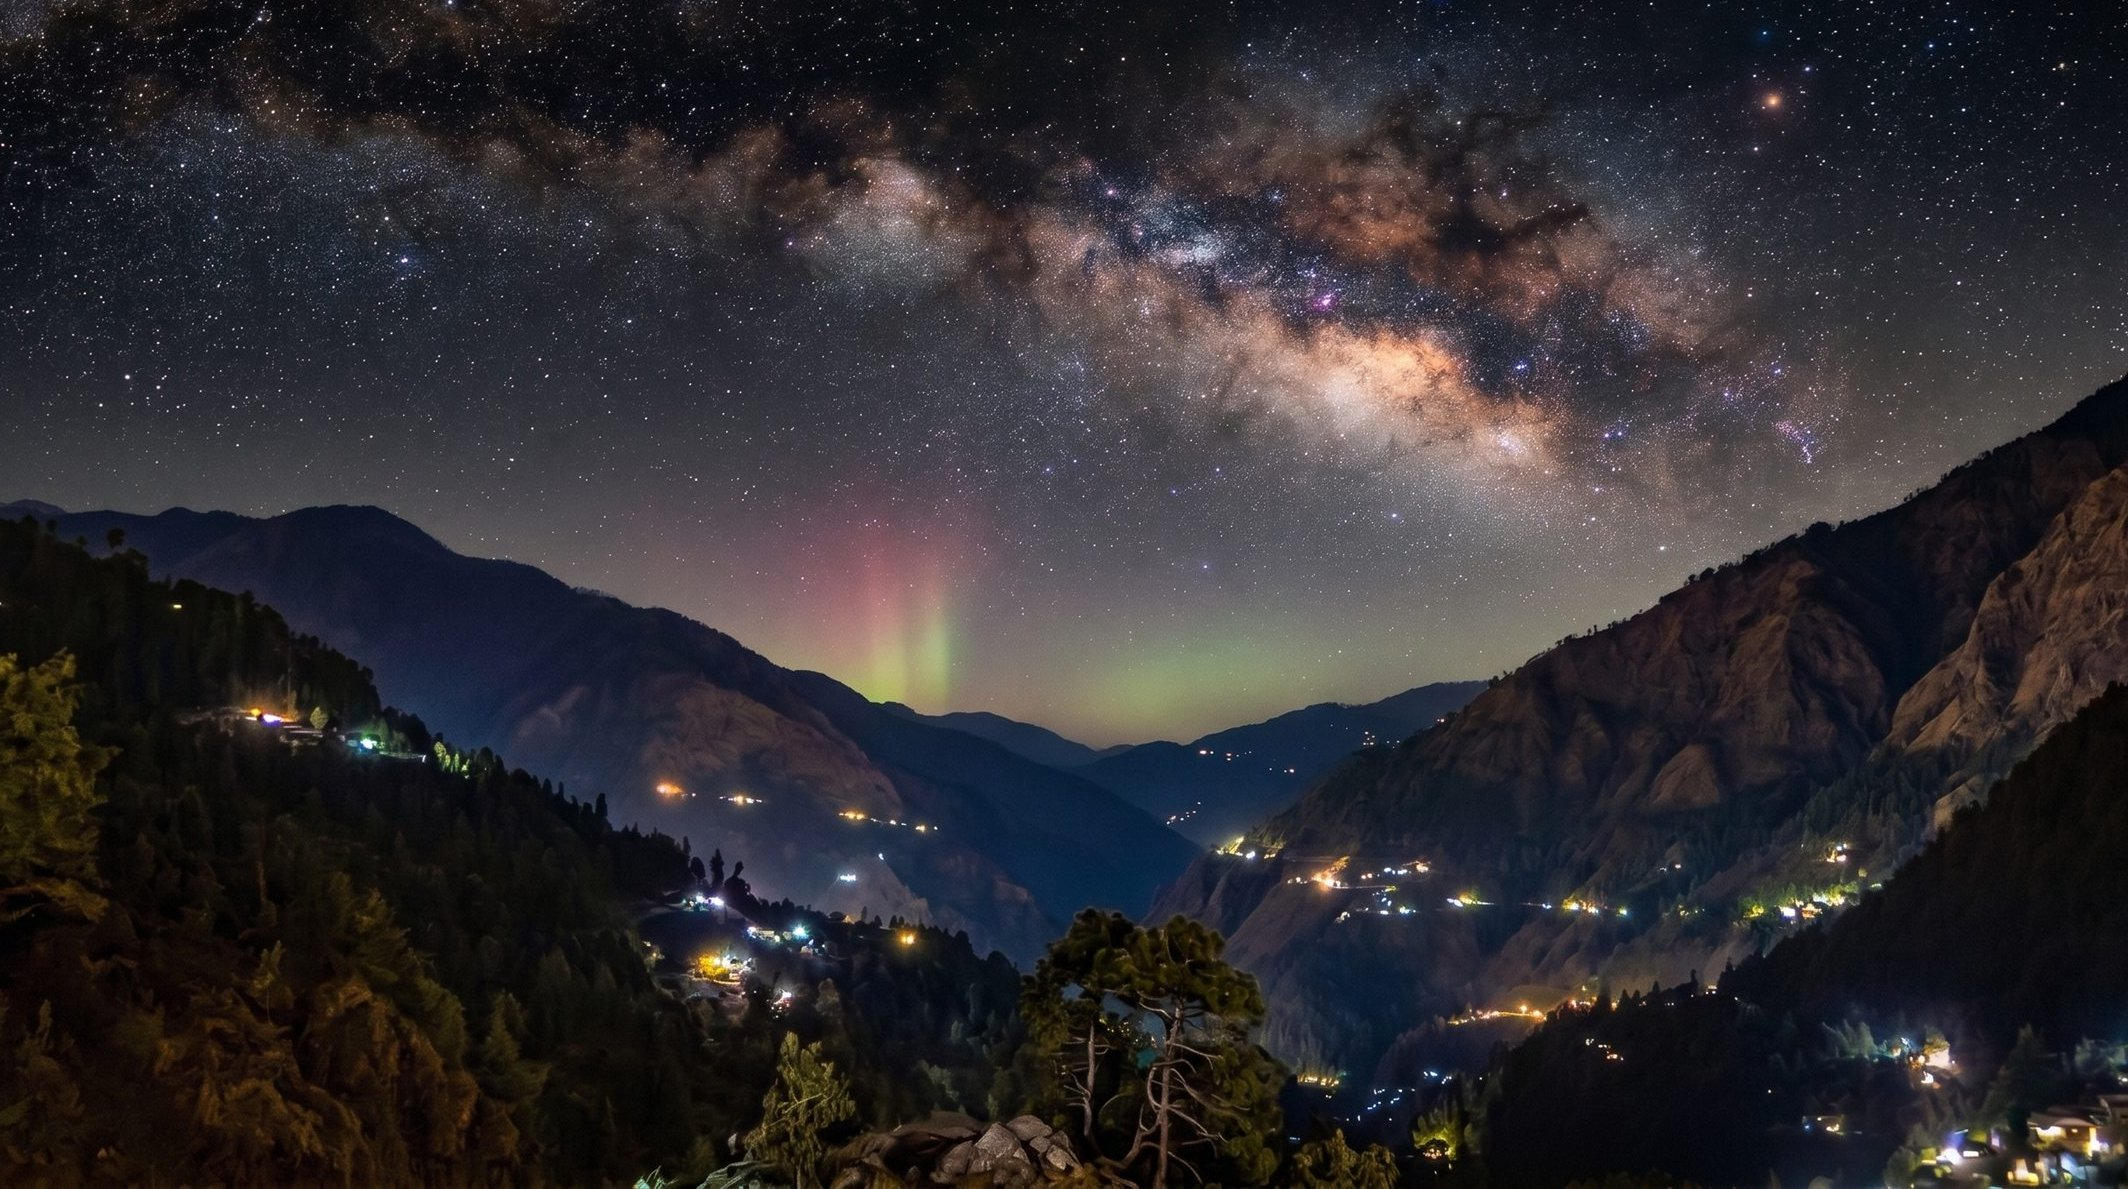
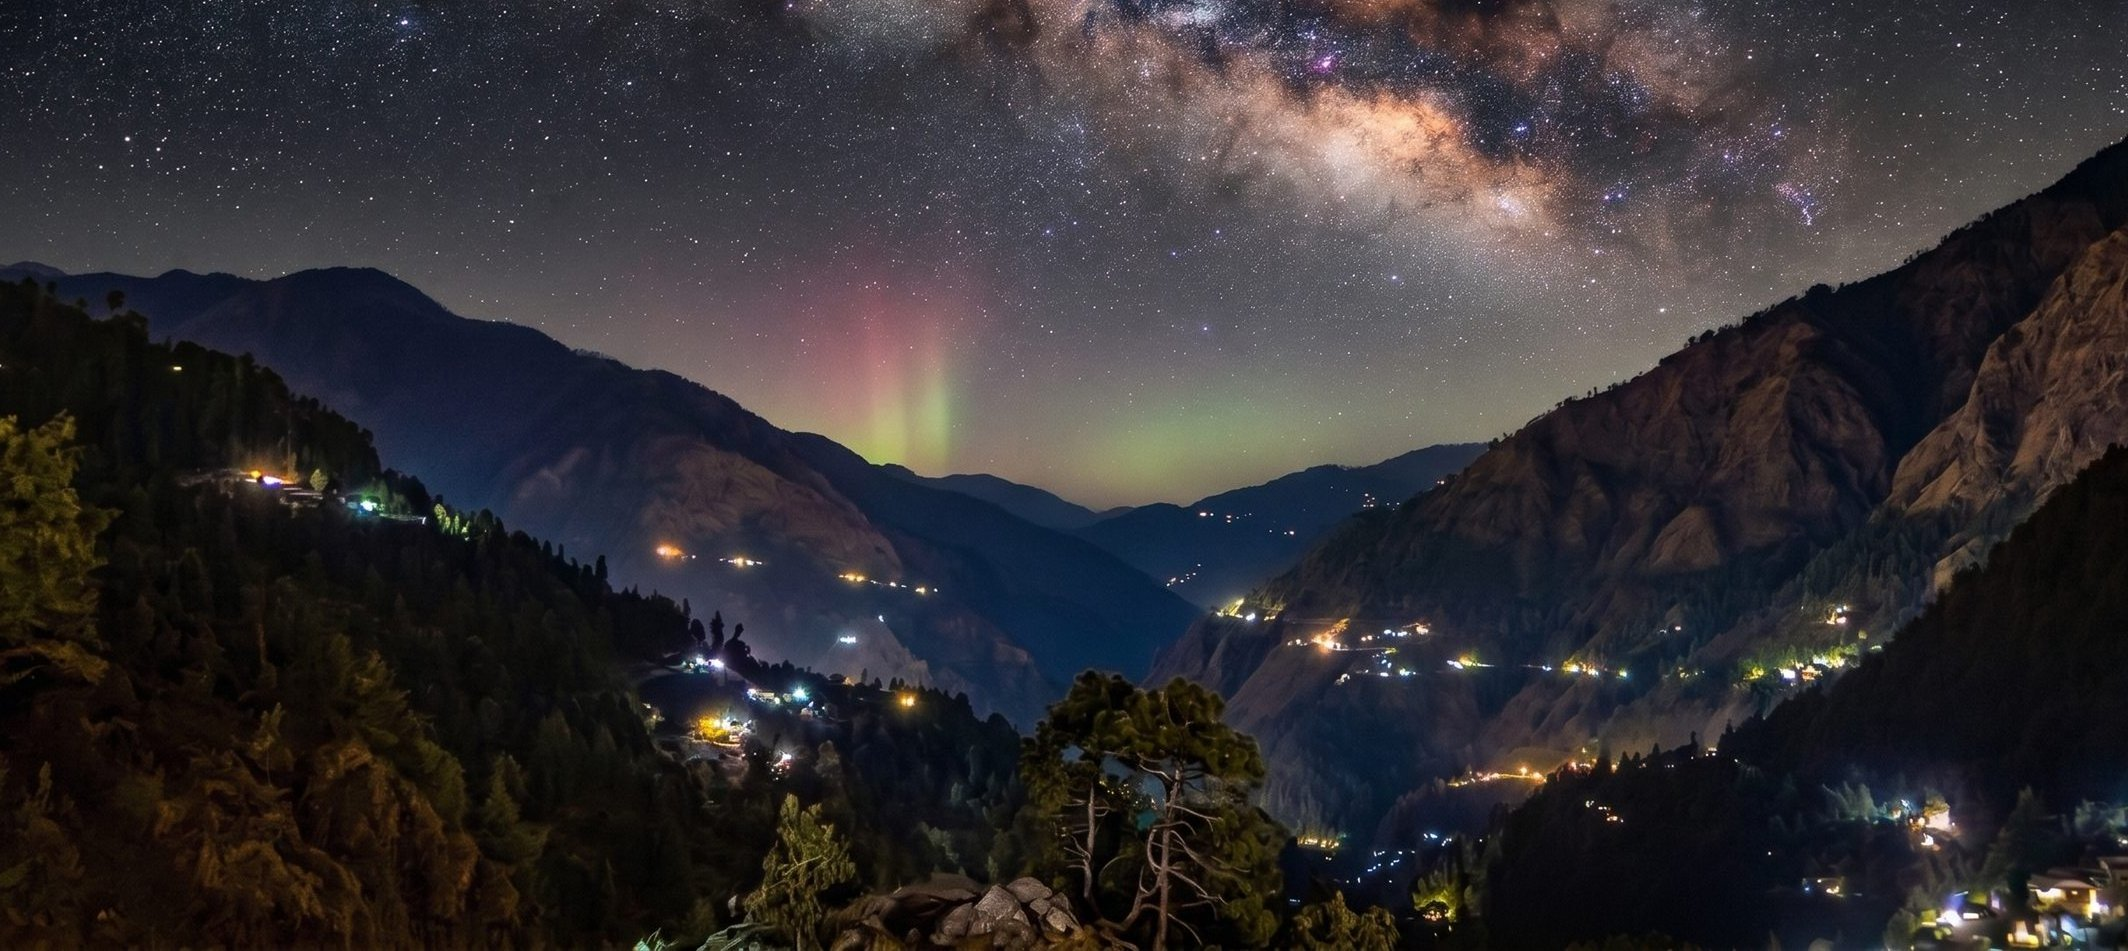
Fit Chapter 06 and 07 photos exactly to their frames
Chapter 06: the frame was locked to 16/9 but the photo is 3/2, so
object-contain letterboxed it with white voids on the left and right.
Locked the frame to the photo's own 1782/1188 ratio instead.

Chapter 07: trimmed another 20% off the top (the scan showed brightness
only climbing from luma 21 to 77 between 0% and 40%, so the upper third
was still empty sky). Cropped to 2128x951 and replaced the broken
md:aspect-[2.5] utility, which never existed in the built stylesheet,
with a .fam-stars rule at the photo's exact ratio. Container and image
now match to 0.00% on all three chapters.

diff --git a/public/pages/life.html b/public/pages/life.html
@@ -63,11 +63,13 @@
     .skip-link:focus { left: 8px; top: 8px; }
 .img-fallback { background: #e8e8e4; min-height: 100px; display: flex; align-items: center; justify-content: center; color: #727972; font-family: Inter, sans-serif; font-size: 13px; }
     /* Chapter 06 — white gallery frame: photo fits whole, never cropped */
-    .fam-frame { position: relative; aspect-ratio: 16 / 9; overflow: hidden; background: #ffffff; padding: 16px; }
+    .fam-frame { position: relative; aspect-ratio: 1782 / 1188; overflow: hidden; background: #ffffff; padding: 16px; }
     .fam-frame-inner { display: flex; align-items: center; justify-content: center; width: 100%; height: 100%; }
     .fam-frame img { display: block; height: 100%; width: auto; max-width: 100%; object-fit: contain; box-shadow: 0 10px 28px rgba(10, 52, 29, 0.28); transition: transform 0.7s ease; }
     .group:hover .fam-frame img { transform: scale(1.04); }
     @media (max-width: 767px) { .fam-frame { padding: 10px; } }
+    /* Chapter 07 — container ratio locked to the photo (2128x951) so the frame fits the image exactly */
+    .fam-stars { aspect-ratio: 2128 / 951; }
 </style>
   <script>document.addEventListener('DOMContentLoaded',function(){document.querySelectorAll('img').forEach(function(i){i.onerror=function(){this.onerror=null;this.style.display='none';var p=this.parentElement;if(p){var f=document.createElement('div');f.className='img-fallback';f.textContent='Image unavailable';p.appendChild(f)}}})})</script>
 </head>
@@ -233,8 +235,8 @@
 
     <section class="max-w-max-width mx-auto px-6 md:px-margin-desktop mb-section-gap">
       <div class="grid grid-cols-1 md:grid-cols-12 gap-gutter items-center">
-        <div class="md:col-span-12 relative rounded-xl overflow-hidden shadow-2xl aspect-[1.79] md:aspect-[2.5] gsap-mask" id="star-container">
-          <img alt="Stargazing night" class="w-full h-full object-cover ken-burns" src="../images/life/chapter-07.jpg?v=2" loading="lazy"/>
+        <div class="md:col-span-12 relative rounded-xl overflow-hidden shadow-2xl fam-stars gsap-mask" id="star-container">
+          <img alt="Stargazing night" class="w-full h-full object-cover ken-burns" src="../images/life/chapter-07.jpg?v=3" loading="lazy"/>
           <div class="absolute inset-0 bg-black/40 mix-blend-multiply z-10"></div>
           <div class="absolute inset-0 flex flex-col items-center justify-center text-center p-8 z-20 gsap-reveal">
             <span class="font-label-sm text-label-sm uppercase tracking-widest text-accent-gold mb-6 block drop-shadow-md">Chapter 07</span>
